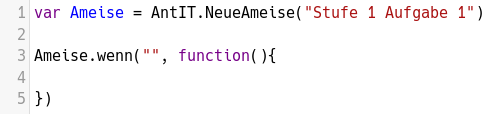
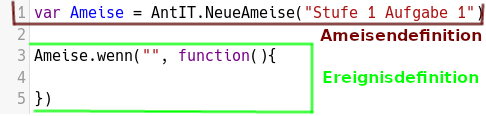
Tutorials von Stufe 1 gepolished

Changed region(s): [[0.0309, 0.3621, 0.9877, 0.9828], [0.0, 0.0, 1.0, 0.3621]]

diff --git a/server/tutorials.js b/server/tutorials.js
@@ -6,17 +6,17 @@ module.exports.tutorials = {
       <p>Während du diese Zeilen liest, bist du höchst wahrscheinlich Teil einer Schülergruppe, die gerade an einem Ameisen-Workshop teilnimmt. Vielleicht freust du dich schon auf den Tag/die nächsten Tage. Du bist neugierig darauf, was man mit diesen Ameisen alles machen kann. Schön, dass du da bist! Vielleicht aber denkst du dir auch nur: Was soll das schon wieder?
       </p>
       
-      <p>Die Wenigsten kommen hier an und haben eine Vorstellung, was sie erwarten wird. Genausowenig haben die meisten Menschen eine Vorstellung davon, was es heißt zu programmieren. In einer Zeit, in der wir tagtäglich mit IT in Verbindung stehen, ist das ziemlich schade. Denn dadurch entgeht uns die Chance, unsere Lebenswelt besser zu verstehen. Und es entgeht und die Chance, diese Welt mitzugestalten.
+      <p>Die Wenigsten kommen hier an und haben eine Vorstellung, was sie erwartet. Genausowenig haben die meisten Menschen eine Vorstellung davon, was es heißt zu programmieren. In einer Zeit, in der wir tagtäglich mit IT in Verbindung stehen, ist das ziemlich schade. Denn dadurch entgeht uns die Chance, unsere Lebenswelt besser zu verstehen. Und es entgeht uns die Chance, diese Welt mitzugestalten.
       </p>
       
-      <p>AntIT! ist mit dem Wunsch entstanden, dir das Programmieren beizubringen. Selbst wenn man am Ende des Workshops kein fertiger Programmierer ist - sollte AntIT! doch einen Einblick geben, was Programmieren bedeutet. Beim Programmieren erlebt man, wie der eigene Code das Verhalten des Computers steuert und verändert. Gleichzeitig ist man auch gezwungen, sich mit der Funktionsweise des Computer selber auseinanderzusetzen. Je besser man den Computer und seine Software versteht, umso besser kann man selber Code schreiben. Du lernst hier nicht nur, wie man Ameisen steuert, sondern gleichzeitig auch, wie dein Code vom Computer ausgeführt wird. Beide Teile gehören zum Programmieren dazu. Und du wirst das nicht nur theoretisch lernen, sondern du wirst das auch ganz praktisch ausprobieren können.
+      <p>AntIT! ist mit dem Wunsch entstanden, dir das Programmieren beizubringen. Selbst wenn man am Ende des Workshops kein fertiger Programmierer ist - sollte AntIT! doch einen Einblick geben, was Programmieren bedeutet. Beim Programmieren erlebt man, wie der eigene Code das Verhalten des Computers steuert und verändert. Gleichzeitig ist man auch gezwungen, sich mit der Funktionsweise des Computer selber auseinanderzusetzen. Je besser man den Computer und seine Software versteht, umso besser kann man selber Code schreiben. Du lernst hier nicht nur, wie man Ameisen steuert, sondern gleichzeitig auch, wie dein Code vom Computer ausgeführt wird. Und du wirst das nicht nur theoretisch lernen, sondern du wirst das ganz praktisch ausprobieren können.
       </p>
       
       <p>Das wird dich hier erwarten. Und das wird eine Herausforderung sein. Etwas Neues zu lernen ist anstrengend und verbraucht Energie und Aufmerksamkeit. Auf diesem Weg wollen wir dich so gut wie möglich begleiten:
       </p>
       
       <ul>
-        <li>Alle Inhalte des Workshops können vollständig über Tutorials gelernt werden. Du kannst ganz nach deinem Tempo arbeiten. Wenn dich Themen besonders interessieren kannst du dir da mehr Zeit nehmen. Solltest du etwas wieder vergessen haben kannst du jederzeit auf die vorherigen Tutorials zurückgreifen. Damit liegt die Kontrolle ganz bei dir.
+        <li>Alle Inhalte des Workshops können vollständig über Tutorials gelernt werden. Du kannst ganz nach deinem Tempo arbeiten. Wenn dich Themen besonders interessieren kannst du dir da mehr Zeit nehmen. Solltest du etwas wieder vergessen haben, kannst du jederzeit auf die vorherigen Tutorials zurückgreifen. Damit liegt die Kontrolle ganz bei dir.
         </li>
         <li>Unmittelbar nach dem Tutorial findest du ein kleines Quiz, mit dem du dich abfragen kannst. Ein Quiz enthält sechs Antwortmöglichkeiten, von denen keine bis alle richtig sein können. Kreuze die richtigen Antworten an. Das Quiz ist weniger als Prüfung gedacht, sondern vielmehr als kleiner "Energizer" zwischendurch. Nach dem Quiz wird auch das Tutorial als fertig markiert.
         </li>
@@ -52,7 +52,7 @@ module.exports.tutorials = {
       <ol>
         <li><p>Gehe ins Dorfzentrum und klicke auf "Neues Ameisenvolk".</p>
         </li>
-        <li><p>Gib den Ameisen den Namen "Hallo Welt".</p>
+        <li><p>Gib dem Ameisenvolk den Namen "Hallo Welt".</p>
         </li>
         <li><p>Öffne die Ameisen, in dem du auf "Bearbeiten" klickst.</p>
         </li>
@@ -63,7 +63,7 @@ module.exports.tutorials = {
         </p></li>
         <li><p>Klicke auf die Aufgabe "Erste Schritte" von Stufe 1.
         </p></li>
-        <li><p>Wähle bei "Lösung einreichen" deine neue Ameise "Hallo Welt" und klicke auf "Level starten".
+        <li><p>Wähle bei "Lösung einreichen" deine neue Ameise "Hallo Welt" aus und klicke auf "Level starten".
         </p></li>
       </ol>
       
@@ -100,41 +100,59 @@ module.exports.tutorials = {
     level : 1,
     name : "Grundlagen der Programmierung [API]",
     text : `
-      <p>Im letzten Tutorial hast du bereits dein erstes Ameisenvolk programmiert. Im Grunde ist es für den Anfang ziemlich einfach. Erstelle ein neues Ameisenvolk und nenne es "Stufe 1 Aufgabe". Wenn du die Ameise bearbeitest, dann sieht der Code so aus:
+      <p>Im letzten Tutorial hast du bereits dein erstes Ameisenvolk programmiert. Jetzt werden wir den Ameisen ein nützliches Verhalten geben. Erstelle dazu ein neues Ameisenvolk und nenne es "Stufe 1 Aufgabe". Wenn du die Ameise bearbeitest, dann siehst du folgenden Code:
       </p>
       
       <p><img src="/images/l1_schnipsel_name_falsch.png" class="img-thumbnail" title="Sehr kreativer Name ..."></p>
       
-      <p>Aber ups! Es gibt ja in Stufe 1 mehrere Aufgaben und du möchtest gerne für jede Aufgabe eine eigene Ameise anlegen. Der Name der Ameise lässt sich zum Glück noch nachträglich ändern, indem die erste Zeile angepasst wird:
+      <p>Aber ups! Es gibt in Stufe 1 mehrere Aufgaben und du würdest gerne für jede Aufgabe eine eigene Ameise anlegen. Der Name der Ameise lässt sich zum Glück noch nachträglich ändern. Passe dazu den Namen in der <em>Ameisendefinition</em> an:
       </p>
       
       <p><img src="/images/l1_schnipsel_name.png" class="img-thumbnail" title="Ordnung muss sein, nicht?"></p>
       
-      <p>So, passt. Die Zeilen 3 bis 5 definieren ein Ereignis. Später können noch weitere Ereignisse hinzukommen. Ereignisse werden nie verschachtelt! Innerhalb eines Ereignis kommt nur Code hinein. Weitere Ereignisse kommen in eigene Zeilen.</p>
+      <p>Die erste Zeile eines Ameisenvolks ist immer die Ameisendefinition. Diese legt den Namen des Ameisenvolks fest und ermöglichst die Definition von Ereignissen. Schauen wir uns nun Zeile 3 bis Zeile 5 an. Das ist eine <em>Ereignisdefinition</em>. Naja, zumindest die Vorlage davon. Sie ist so noch nicht vollständig, aber das werden wir gleich ändern.
       
-      <p>Wir müssen außerdem bei jedem Ereignis angeben, von welchem Typ er ist. Innerhalb einer Ameise sollte es pro Typ nur eine Definition geben. Der einzige Typ, den wir aktuell kennen, ist <code>"IstGeboren"</code>. Dieses Ereignis wird genau einmal bei der Geburt der Ameise aufgerufen. Trage den Typ ein und füge schon mal ein paar Zeilen Code ein:
+      <p>Das Verhalten der Ameisen wird über Ereignisse gesteuert. Ereignisse sind ein ziemlich mächtiges Mittel, um Software zu bauen. Gleichzeitig braucht es etwas Zeit, bis man sich daran gewöhnt hat. Für den Anfang werden wir uns daher nur mit einem einzigen Ereignis namens <code>"IstGeboren"</code> beschäftigen. Wie der Name schon sagt, definieren wir damit das Verhalten der Ameise, nachdem sie geboren wurde. Eine Ereignisdefinition besteht aus einer <em>Kopfzeile</em> (Zeile 3) mit dem Namen des Ereignis, die eine geschweifte und eine runde Klammer öffnet und einer <em>Schlusszeile</em> (Zeile 5), die diese zwei Klammern wieder schließt. Dazwischen befinden sich die <em>Anweisungen</em>. Jedes Ereignis hat einen <em>Ereignisnamen</em> und dieser wird in die Kopfzeile eingetragen:
+      </p>
+      
+      <p><img src="/images/l1_schnipsel_ereignisdefinition.png" class="img-thumbnail" title=""></p>
+      
+      <p>Trage also in diese Ameise den Ereignisnamen ein und füge folgende Anweisungen ein:
       </p>
       
       <p><img src="/images/l1_schnipsel_event.png" class="img-thumbnail" title="Befehle innerhalb von Ereignisse werden eingerückt. Nutze die Tab-Taste."></p>
       
-      <p>Es gibt den Befehl <code>Gehe</code> und den Befehl <code>Drehe</code>. Wenn der Geh-Befehl ausgeführt wird, dann bewegt sich die Ameise geradeaus nach vorne um die angegebene Anzahl Schritte. Beim Dreh-Befehl dreht sich die Ameise um den angegebenen Winkel im Uhrzeigersinn. Positive Winkel entsprechen damit Rechtsdrehungen, der Befehl in Zeile 5 entspricht einer 90-Grad-Drehung nach links.
+      <p>Achte darauf, dass die Anweisungen innerhalb einer Ereignisdefinition eingerückt sind. Das funktioniert meist automatisch. Falls nicht, kannst du eine Zeile einrücken, indem du an den Anfang der Zeile klickst und dann die TAB-Taste auf der Tastatur drückst (die große Taste links neben dem Q mit den zwei Pfeilen). Das Einrücken macht den Code leserlicher und bei größeren Ameisen mit vielen Definitionen hilft es, den Überblick zu bewahren.
       </p>
       
-      <p>Jeder Befehl wird mit runden Klammern abgeschlossen, selbst wenn mal in den Klammern nichts steht. Fehlen die Klammern, dann wird der Befehl auch nicht ausgeführt. Basta.
+      <p>Soweit zu den Ereignissen. Schauen wir uns jetzt noch die Anweisungen an. Die Anweisungen bestehen aus einzelnen <em>Befehlen</em>. In diesem Tutorial werden wir die drei grundlegendsten Befehle kennenlernen:
       </p>
       
-      <p>Du kannst jetzt mit dieser Ameise weiterarbeiten für die erste Aufgabe von Stufe 1. Ein letzter Hinweis zum Schluss: Tutorials mit dem Zusatz [API] stellen neue Befehle vor. Diese werden rot im Text hervorgehoben und erleichtern damit die Suche nach bestimmten Funktionen.
+      <p><img src="/images/l1_schnipsel_event2.png" class="img-thumbnail" title=""></p>
+      
+      <p>Der erste Befehl heißt <code>Gehe</code>. Dieser Befehl lässt die Ameise eine bestimmte Anzahl an Schritten geradeaus gehen. Ein Befehl besteht aus seinem Namen und runden Klammern, die den <em>Parameter</em> des Befehls enthalten. Beim Gehe-Befehl ist der Parameter die Anzahl der Schritte.
+      </p>
+      
+      <p>Der zweite Befehl heißt <code>Drehe</code>. Dessen Parameter gibt an, um wie viel Grad sich die Ameisen im Uhrzeigersinn um die eigene Achse drehen soll. Ein positiver Parameter bestimmt einer Rechtsdrehung. Ein negativer Parameter wie in Zeile 5 gibt eine Linksdrehung an.
+      </p>
+      
+      <p>Schließlich gibt es noch den Befehl <code>DreheZuRichtung</code>. Dieser nimmt als Parameter eine Himmelsrichtung. Dabei beginnt man im Osten und zählt die Grad im Uhrzeigersinn weiter. Es gilt damit Osten = 0, Süden = 90, Westen = 180 und Norden = 270. Mit DreheZuRichtung kann man die Ameise also in eine bestimmte Richtung des Spielsfelds ausrichten:
+      </p>
+      
+      <p><img src="/images/l1_koordinaten2.jpg" class="img-thumbnail" title=""></p>
+      
+      <p>Mit diesem Wissen kannst du nun die Aufgaben dieser Stufe bearbeiten. Ein letzter Hinweis zum Schluss: Tutorials mit dem Zusatz [API] stellen neue Befehle oder Ereignisse vor. Diese werden im Text rot hervorgehoben und erleichtern damit die Suche nach bestimmten Funktionen.
       </p>
     `,
     questions : [
-      "Der Name eines Ameisenvolks lässt sich nach dem Erstellen nicht mehr ändern.",
-      "Pro Ereignistyp soll es in einer Ameise nur eine Definition geben.",
-      "Wir haben bisher nur das Ereignis \"IstGeboren\" kennengelernt.",
-      "Jeder Befehl braucht runde Klammern.",
-      "Jeder Befehl kommt auf eine eigene Zeile.",
-      "Wir kennen bisher die Befehle Geh und Dreh."
+      "Der Name der Ameise lässt sich in der Ameisendefinition anpassen.",
+      "Der Ereignisname wird in der Schlusszeile einer Ereignisdefinition eingetragen.",
+      "Wir nutzen bisher nur das Ereignis \"IstGeboren\".",
+      "Der Parameter eines Befehls steht in runden Klammern.",
+      "'Geh!' ist die umgangssprachliche Form von 'Gehe!'",
+      "Südwest = 45."
     ],
-    solution : [0,1,1,1,1,0],
+    solution : [1,0,1,1,1,0],
   },
   4 : {
     level : 2,
